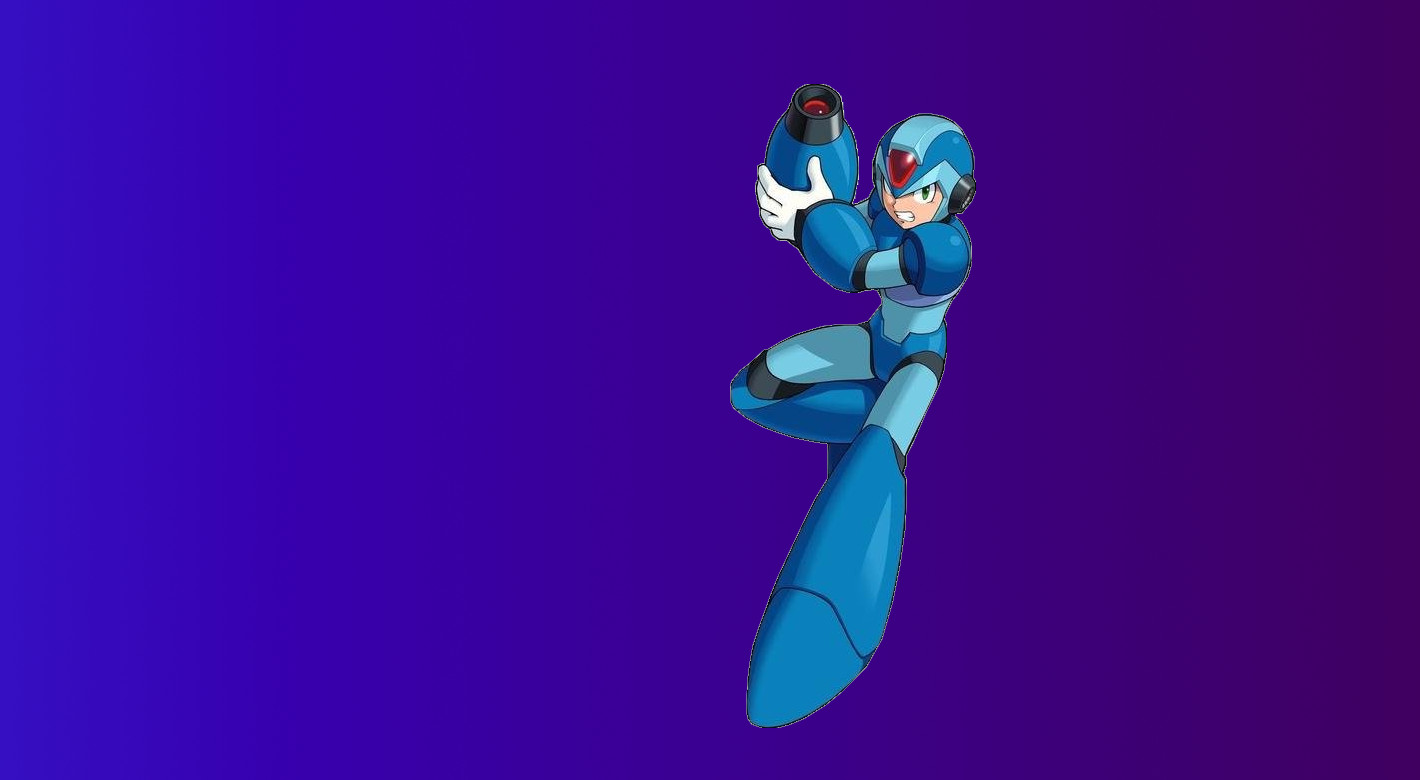
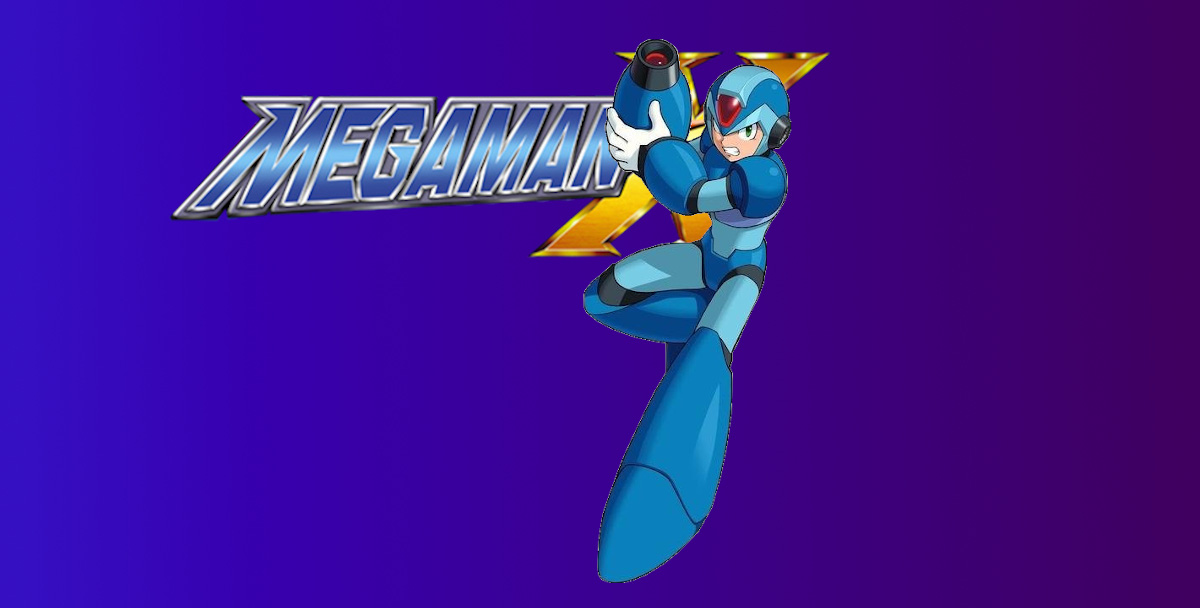
improving

Changed region(s): [[0.1233, 0.0625, 0.7092, 0.9688]]

diff --git a/pages/quiz/index.js b/pages/quiz/index.js
@@ -1,3 +1,5 @@
+/* eslint-disable no-use-before-define */
+/* eslint-disable no-plusplus */
 import React from 'react';
 import QuizBackground from '../../src/components/QuizBackground';
 import QuizContainer from '../../src/components/QuizContainer';
@@ -127,6 +129,15 @@ export default function Quiz() {
             { `Pergunta ${qN + 1} de ${db.questions.length}` }
           </h2>
         </Widget.Header>
+        <img
+          alt="Descrição"
+          style={{
+            width: '100%',
+            height: '150px',
+            objectFit: 'cover',
+          }}
+          src={db.questions[qN].image}
+        />
         {elementsShow()}
         <Widget.Animation>
           <div className="js-animation" />
@@ -151,6 +162,7 @@ export default function Quiz() {
           <h2>Respostas Corretas:</h2>
           <ul>
             {myanswers.map((answers, idx) => (
+              // eslint-disable-next-line react/no-array-index-key
               <li key={`${idx}`}>
                 {answers === true
                   ? (
@@ -178,7 +190,7 @@ export default function Quiz() {
   }
 
   return (
-    <QuizBackground backgroundImage="/megaman.jpg">
+    <QuizBackground backgroundImage="/megaman.jpg" backgroundImage2="/megaman_800plus.jpg">
       <QuizContainer>
         <Logo />
         <Widget>

diff --git a/src/components/QuizBackground/index.js b/src/components/QuizBackground/index.js
@@ -9,6 +9,10 @@ const QuizBackground = styled.div`
     background-image: url(${({ backgroundImage }) => backgroundImage});
     background-color: ${({ theme }) => theme.colors.mainBg};
 
+    @media screen and (min-width: 900px){
+        background-image: url(${({ backgroundImage2 }) => backgroundImage2});
+    }
+
     @media screen and (max-width: 500px){
         display: flex;
         align-items: center;

diff --git a/pages/index.js b/pages/index.js
@@ -18,7 +18,7 @@ export default function Home() {
   const [name, setName] = React.useState('');
 
   return (
-    <QuizBackground backgroundImage="/megaman.jpg">
+    <QuizBackground backgroundImage="/megaman.jpg" backgroundImage2="/megaman_800plus.jpg">
       <QuizContainer>
         <Logo />
         <Widget
